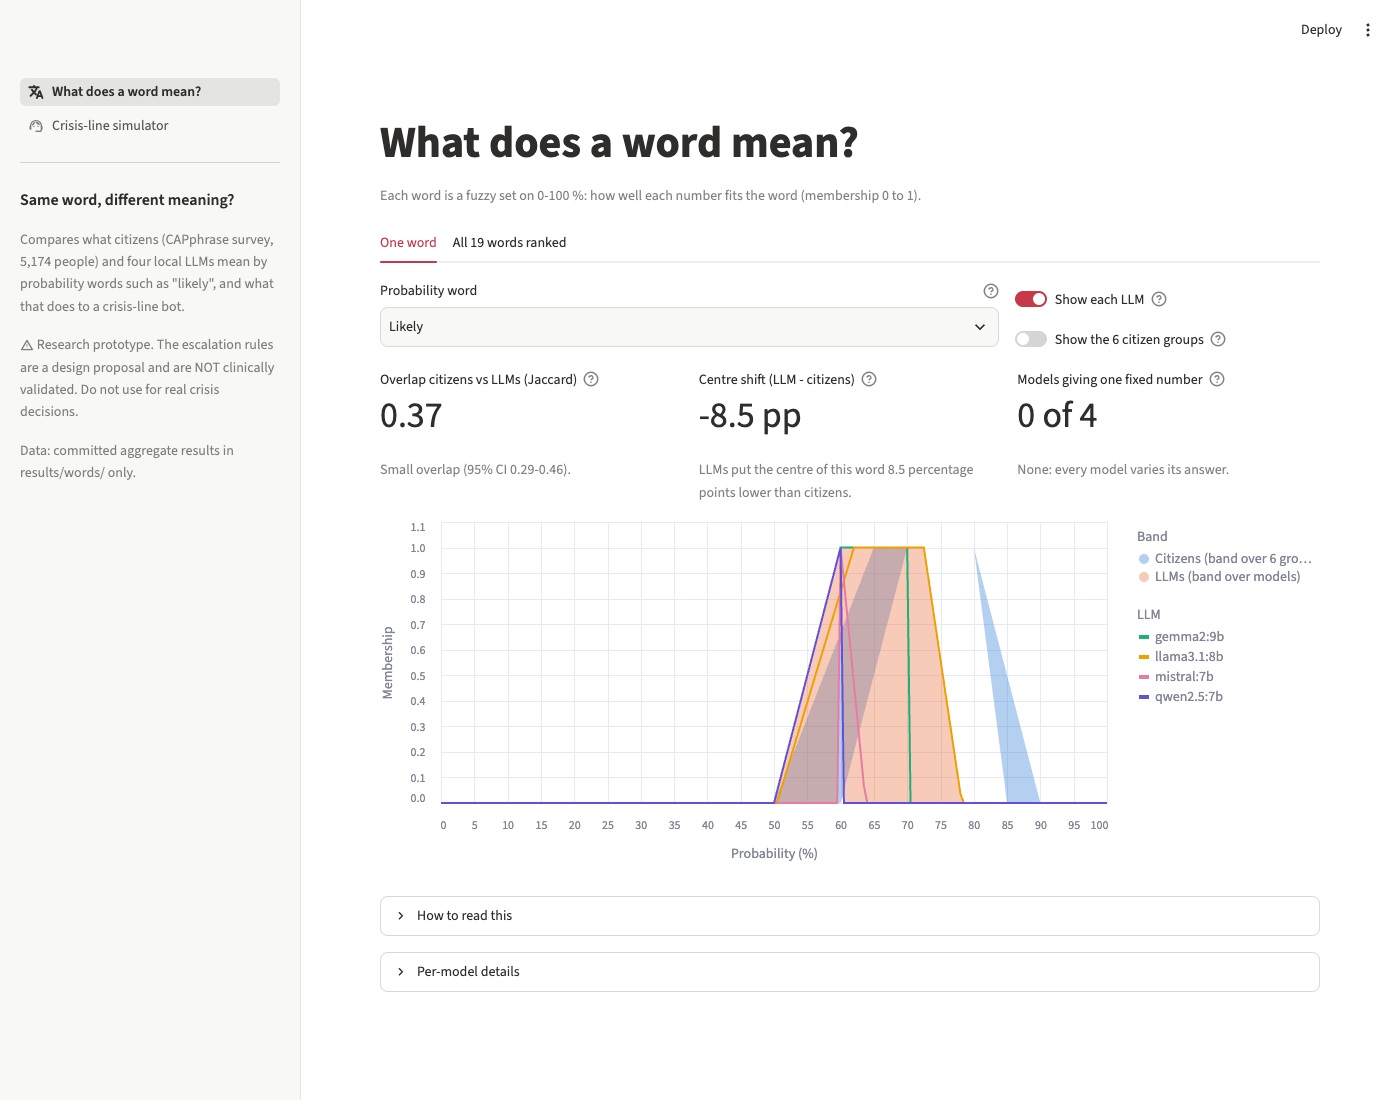
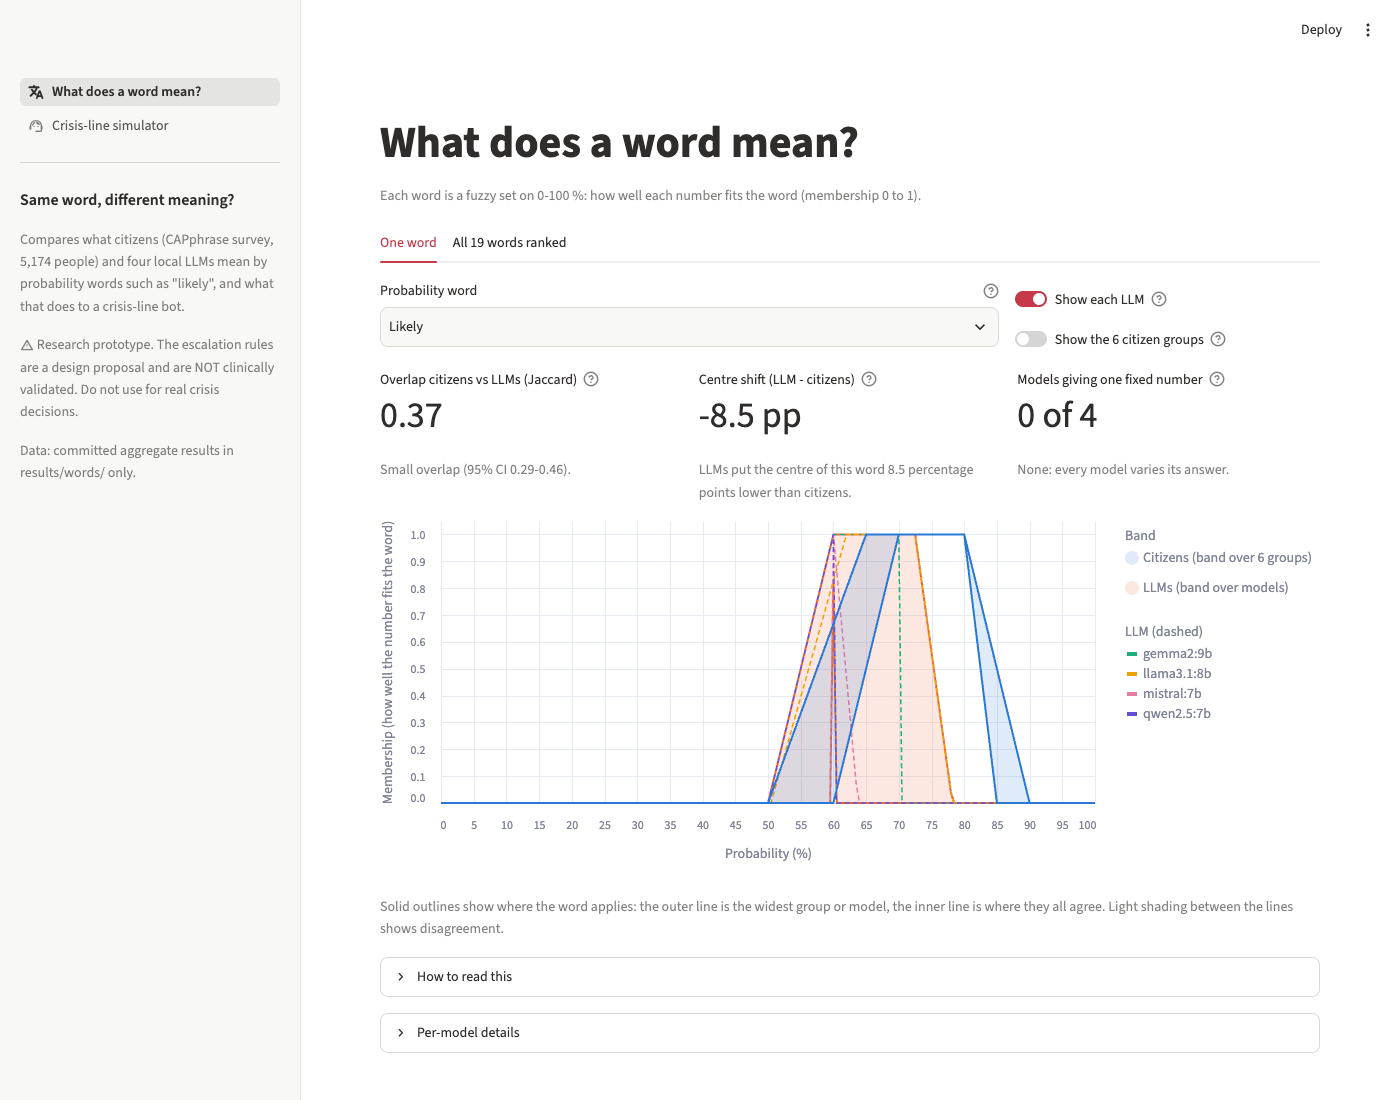
Fix word chart outlines and record Python 3.12 reference (PM review)
Page 1 now draws each band's UMF and LMF as solid outlines with a light
FOU fill and puts the citizen band on top, so the full citizen meaning
of a word is visible (for "Likely" the citizen core is 65-80, not the
right-hand sliver). Chart building moved to src/app/charts.py with
tests for layer order, both outlines and the "Likely" core. Python 3.12
is recorded as the reference environment; USABILITY.md stays a draft
until reviewed by Nikhil and Rajeshwar. Screenshots retaken.

Changed region(s): [[0.2764, 0.4636, 0.9214, 0.8964], [0.2764, 0.4636, 0.3071, 0.7109], [0.3071, 0.9273, 0.3686, 0.9582]]

diff --git a/src/app/charts.py b/src/app/charts.py
@@ -1,0 +1,70 @@
+"""Altair chart builders for the word-meaning lab (no Streamlit; unit-tested).
+
+Word chart (page 1): each band (citizens, LLMs) is drawn as a lightly shaded footprint of uncertainty (between
+LMF and UMF) PLUS solid outlines of both UMF and LMF, so the whole word stays visible: where all groups or models
+agree, the LMF outline shows it, and the chart does not rely on colour alone. Draw order (bottom to top):
+LLM fill, LLM outlines, model lines, citizen-group lines, citizen fill, citizen outlines. The citizen band is
+drawn last, so the LLM fill can never hide the citizens' edges.
+"""
+from __future__ import annotations
+
+import altair as alt
+import pandas as pd
+
+BLUE, ORANGE, GREY = '#2a78d6', '#eb6834', '#8a8984'
+MODEL_COLOURS = ['#1baf7a', '#eda100', '#e87ba4', '#6250d6']  # fixed order, one per model
+CITIZEN_BAND, LLM_BAND = 'Citizens (band over 6 groups)', 'LLMs (band over models)'
+FILL_OPACITY = .15
+LAYER_ORDER = ['llm_fill', 'llm_outline', 'model_lines', 'group_lines', 'citizen_fill', 'citizen_outline']
+
+
+def outlines(bands: pd.DataFrame) -> pd.DataFrame:
+    """Long frame of the UMF and LMF outlines of each band: x, series, edge, mu."""
+    up = bands.assign(edge='upper edge (UMF)', mu=bands.hi)
+    low = bands.assign(edge='lower edge (LMF)', mu=bands.lo)
+    return pd.concat([up, low], ignore_index=True)[['x', 'series', 'edge', 'mu']]
+
+
+def word_chart(bands: pd.DataFrame, lines: pd.DataFrame, height: int = 360) -> alt.LayerChart:
+    """Layered chart for one term; layer names follow LAYER_ORDER (layers without data are skipped)."""
+    x = alt.X('x:Q', title='Probability (%)', scale=alt.Scale(domain=[0, 100]))
+    y_title, y_scale = 'Membership (how well the number fits the word)', alt.Scale(domain=[0, 1.05])
+    y = alt.Y('mu:Q', title=y_title, scale=y_scale)
+    band_colour = alt.Color('series:N', title='Band', legend=alt.Legend(labelLimit=300),
+                            scale=alt.Scale(domain=[CITIZEN_BAND, LLM_BAND], range=[BLUE, ORANGE]))
+    edges = outlines(bands)
+    tip_edge = ['series:N', 'edge:N', alt.Tooltip('x:Q', title='%'), alt.Tooltip('mu:Q', format='.2f', title='membership')]
+
+    def fill(series, name):
+        part = bands[bands.series == series]
+        return alt.Chart(part).mark_area(opacity=FILL_OPACITY).encode(
+            x=x, y=alt.Y('lo:Q', title=y_title, scale=y_scale), y2='hi:Q', color=band_colour,
+            tooltip=['series:N', alt.Tooltip('x:Q', title='%'), alt.Tooltip('lo:Q', format='.2f', title='lower edge'),
+                     alt.Tooltip('hi:Q', format='.2f', title='upper edge')]).properties(name=name)
+
+    def edge(series, name):
+        part = edges[edges.series == series]
+        return alt.Chart(part).mark_line(strokeWidth=2).encode(
+            x=x, y=y, color=band_colour, detail='edge:N', tooltip=tip_edge).properties(name=name)
+
+    layers = [fill(LLM_BAND, 'llm_fill'), edge(LLM_BAND, 'llm_outline')]
+    models = lines[lines.kind == 'model']
+    if len(models):
+        names = sorted(models.series.unique())
+        layers.append(alt.Chart(models).mark_line(strokeWidth=1.5, strokeDash=[5, 3]).encode(
+            x=x, y=y, stroke=alt.Stroke('series:N', title='LLM (dashed)',
+                                        scale=alt.Scale(domain=names, range=MODEL_COLOURS[:len(names)])),
+            tooltip=['series:N', alt.Tooltip('x:Q', title='%'), alt.Tooltip('mu:Q', format='.2f', title='membership')]
+        ).properties(name='model_lines'))
+    groups = lines[lines.kind == 'citizen group']
+    if len(groups):
+        layers.append(alt.Chart(groups).mark_line(strokeWidth=1, color=BLUE, opacity=.7, strokeDash=[2, 2]).encode(
+            x=x, y=y, detail='series:N',
+            tooltip=[alt.Tooltip('series:N', title='Citizen group'), alt.Tooltip('x:Q', title='%'),
+                     alt.Tooltip('mu:Q', format='.2f', title='membership')]).properties(name='group_lines'))
+    layers += [fill(CITIZEN_BAND, 'citizen_fill'), edge(CITIZEN_BAND, 'citizen_outline')]
+    return alt.layer(*layers).resolve_scale(color='shared', stroke='independent').properties(height=height)
+
+
+def layer_names(chart: alt.LayerChart) -> list[str]:
+    return [layer.name for layer in chart.layer]

diff --git a/app/views/meaning.py b/app/views/meaning.py
@@ -2,10 +2,9 @@
 import altair as alt
 import streamlit as st
 
-from src.app import logic
+from src.app import charts, logic
 
-BLUE, ORANGE, GREY = '#2a78d6', '#eb6834', '#8a8984'
-MODEL_COLOURS = ['#1baf7a', '#eda100', '#e87ba4', '#6250d6']  # fixed order, one per model
+BLUE, ORANGE, GREY = charts.BLUE, charts.ORANGE, charts.GREY
 
 
 @st.cache_data(show_spinner=False)
@@ -49,35 +48,16 @@ with tab_one:
         st.warning(f'Left out for this word (fewer than 30 valid answers): {", ".join(s["excluded_models"])}.')
 
     bands, lines = logic.term_curves(d, term, show_groups=show_groups, show_models=show_models)
-    x = alt.X('x:Q', title='Probability (%)', scale=alt.Scale(domain=[0, 100]))
-    band = alt.Chart(bands).mark_area(opacity=.35).encode(
-        x=x, y=alt.Y('lo:Q', title='Membership', scale=alt.Scale(domain=[0, 1.05])), y2='hi:Q',
-        color=alt.Color('series:N', title='Band', scale=alt.Scale(domain=list(bands.series.unique()), range=[BLUE, ORANGE])),
-        tooltip=['series:N', alt.Tooltip('x:Q', title='%'), alt.Tooltip('lo:Q', format='.2f', title='lower'),
-                 alt.Tooltip('hi:Q', format='.2f', title='upper')])
-    layers = [band]
-    models = lines[lines.kind == 'model']
-    if len(models):
-        names = sorted(models.series.unique())
-        layers.append(alt.Chart(models).mark_line(strokeWidth=2).encode(
-            x=x, y='mu:Q',
-            stroke=alt.Stroke('series:N', title='LLM', scale=alt.Scale(domain=names, range=MODEL_COLOURS[:len(names)])),
-            tooltip=['series:N', alt.Tooltip('x:Q', title='%'), alt.Tooltip('mu:Q', format='.2f', title='membership')]))
-    groups = lines[lines.kind == 'citizen group']
-    if len(groups):
-        layers.append(alt.Chart(groups).mark_line(strokeWidth=1, color=BLUE, opacity=.8).encode(
-            x=x, y='mu:Q', detail='series:N',
-            tooltip=[alt.Tooltip('series:N', title='Citizen group'), alt.Tooltip('x:Q', title='%'),
-                     alt.Tooltip('mu:Q', format='.2f', title='membership')]))
-    st.altair_chart(alt.layer(*layers).resolve_scale(color='independent', stroke='independent').properties(height=360),
-                    width='stretch')
+    st.altair_chart(charts.word_chart(bands, lines), width='stretch')
+    st.caption('Solid outlines show where the word applies: the outer line is the widest group or model, the inner '
+               'line is where they all agree. Light shading between the lines shows disagreement.')
 
     with st.expander('How to read this', expanded=False):
         st.markdown(
-            '- **Blue band**: citizens. Its lower and upper edges come from 6 demographic groups; a wide band '
-            'means the groups disagree.\n'
-            '- **Orange band**: the four LLMs together (question P1, 50 answers each).\n'
-            '- **Coloured lines**: one LLM each. A tall thin spike means the model always gives the same number.\n'
+            '- **Blue outlines**: citizens. The outer (upper) line is the widest of the 6 demographic groups; the '
+            'inner (lower) line is where all 6 agree. Shading between them shows the groups disagree.\n'
+            '- **Orange outlines**: the four LLMs together (question P1, 50 answers each), read the same way.\n'
+            '- **Dashed lines**: one LLM each. A tall thin spike means the model always gives the same number.\n'
             '- **Overlap (Jaccard)** compares the two bands; **centre shift** compares where they sit.\n'
             '- Ranges in brackets are 95% bootstrap confidence intervals from the study.')
     with st.expander('Per-model details'):

diff --git a/tests/test_word_lab.py b/tests/test_word_lab.py
@@ -261,3 +261,44 @@ def test_app_runs_on_committed_results(monkeypatch):
     assert not at.exception
     at.switch_page('views/simulator.py').run()
     assert not at.exception and any('9 of 190' in c.value for c in at.caption)
+
+
+# --------------------------------------------------------------------------- word chart (PM review fix)
+
+from src.app import charts  # noqa: E402
+
+
+def _layer_data(chart, name):
+    spec = chart.to_dict()
+    layer = next(l for l in spec['layer'] if l.get('name') == name)
+    return spec['datasets'][layer['data']['name']], layer
+
+
+def test_word_chart_draws_both_outlines_with_citizens_on_top(results):
+    d = logic.load_word_data(results)
+    bands, lines = logic.term_curves(d, 'Likely', show_groups=True)
+    chart = charts.word_chart(bands, lines)
+    assert charts.layer_names(chart) == charts.LAYER_ORDER          # citizen fill and outlines drawn last
+    for name, series in [('citizen_outline', charts.CITIZEN_BAND), ('llm_outline', charts.LLM_BAND)]:
+        rows, layer = _layer_data(chart, name)
+        assert layer['mark']['type'] == 'line'
+        assert {r['series'] for r in rows} == {series}
+        assert {r['edge'] for r in rows} == {'upper edge (UMF)', 'lower edge (LMF)'}
+    for name in ['citizen_fill', 'llm_fill']:
+        _, layer = _layer_data(chart, name)
+        assert layer['mark']['opacity'] == charts.FILL_OPACITY <= .2
+    no_lines = charts.word_chart(bands, lines.iloc[0:0])
+    assert charts.layer_names(no_lines) == ['llm_fill', 'llm_outline', 'citizen_fill', 'citizen_outline']
+
+
+@pytest.mark.skipif(not (REAL / 'rq1/codebooks/citizen_it2.csv').is_file(), reason='committed results not present')
+def test_likely_citizen_core_is_visible_in_the_plotted_outline():
+    """'Likely': citizen UMF reaches 1 inside 67-80, and that outline is what the chart plots."""
+    d = logic.load_word_data(REAL)
+    bands, lines = logic.term_curves(d, 'Likely')
+    rows, _ = _layer_data(charts.word_chart(bands, lines), 'citizen_outline')
+    upper = pd.DataFrame([r for r in rows if r['edge'] == 'upper edge (UMF)'])
+    core = upper[(upper.x >= 67) & (upper.x <= 80)]
+    assert (core.mu == 1).any()
+    lower = pd.DataFrame([r for r in rows if r['edge'] == 'lower edge (LMF)'])
+    assert len(upper) == len(lower) == len(X)

diff --git a/src/app/logic.py b/src/app/logic.py
@@ -18,6 +18,7 @@ from src.cww import APPROPRIATENESS_WORDS
 from src.cww.rules import ACTIONS
 from src.cww.verbalise import CITIZEN, LEVELS, LLM, LLM_PROMPT, SEVERITY, action, load_codebooks, memberships, verbalise
 from src.cww.centroid import centre
+from src.app.charts import CITIZEN_BAND, LLM_BAND
 
 ROOT = Path(__file__).resolve().parents[2]
 DEFAULT_RESULTS = ROOT / 'results/words'
@@ -131,8 +132,8 @@ def term_curves(data: WordData, term: str, show_groups: bool = False, show_model
     c = data.citizen[data.citizen.term == term]
     l = data.llm_it2[data.llm_it2.term == term]
     bands = pd.concat([
-        pd.DataFrame({'x': c.x, 'series': 'Citizens (band over 6 groups)', 'lo': c.lmf, 'hi': c.umf}),
-        pd.DataFrame({'x': l.x, 'series': 'LLMs (band over models)', 'lo': l.lmf, 'hi': l.umf}),
+        pd.DataFrame({'x': c.x, 'series': CITIZEN_BAND, 'lo': c.lmf, 'hi': c.umf}),
+        pd.DataFrame({'x': l.x, 'series': LLM_BAND, 'lo': l.lmf, 'hi': l.umf}),
     ], ignore_index=True)
     parts = []
     if show_models:

diff --git a/app/README.md b/app/README.md
@@ -18,11 +18,12 @@ touches raw data, so it starts in about a second and contains no licensed survey
 
 ## Installation manual
 
-**Requirements:** Python 3.11 or newer, and the repository checked out with its `results/words/` folder.
+**Requirements:** **Python 3.12** (the reference environment for this project), and the repository checked
+out with its `results/words/` folder.
 
 ```bash
 git clone <repository> && cd mental-health-crisis
-python3 -m venv .venv
+python3.12 -m venv .venv
 .venv/bin/python -m pip install -r requirements.txt     # includes streamlit==1.67.0
 .venv/bin/streamlit run app/word_lab.py
 ```
@@ -30,9 +31,12 @@ python3 -m venv .venv
 Streamlit prints a local address (normally http://localhost:8501) and opens it in your browser.
 Stop the app with `Ctrl+C`.
 
-**Tested environment:** macOS (Apple silicon), Python 3.15.2, streamlit 1.67.0, altair 6.3.0, pandas 3.1.1,
-numpy 2.5.5, pyarrow 26.0.1. **Python 3.15 note:** the pinned `pyarrow==22.0.0` in `requirements.txt` has no
-wheel for Python 3.15 and fails to build. On 3.15, install the app's packages without that pin:
+**Reference environment:** Python 3.12 with the pins in `requirements.txt`. The WP8 reproducibility check runs
+there. The app itself was developed and tested on macOS (Apple silicon) with Python 3.15.2, streamlit 1.67.0,
+altair 6.3.0, pandas 3.1.1, numpy 2.5.5 and pyarrow 26.0.1.
+
+**Python 3.15 workaround:** the pinned `pyarrow==22.0.0` in `requirements.txt` has no wheel for Python 3.15 and
+fails to build. On 3.15, install the app's packages without that pin:
 
 ```bash
 .venv/bin/python -m pip install streamlit==1.67.0 numpy pandas matplotlib PyYAML pytest
@@ -63,11 +67,12 @@ Use the left sidebar to switch between the two pages.
 1. **Pick a probability word** in the drop-down menu (default: "Likely").
 2. Read the **chart**. The horizontal axis is a probability from 0 to 100 %. The height (*membership*, 0 to 1)
    shows how well each number fits the word.
-   - **Blue band:** citizens. Its lower and upper edges come from six demographic groups (native or non-native
-     English speakers, in three age bands). A wide band means the groups disagree.
-   - **Orange band:** the four LLMs together (question wording P1, 50 answers per model).
-   - **Coloured lines:** one LLM each. A tall thin spike means the model gave the same number almost every time
-     (a *collapsed* model).
+   - **Blue outlines:** citizens. The outer (upper) line is the widest of six demographic groups (native or
+     non-native English speakers, in three age bands); the inner (lower) line is where all six agree. Light
+     shading between the lines shows disagreement. The citizen band is drawn on top, so it is never hidden.
+   - **Orange outlines:** the four LLMs together (question wording P1, 50 answers per model), read the same way.
+   - **Dashed coloured lines:** one LLM each. A tall thin spike means the model gave the same number almost every
+     time (a *collapsed* model).
 3. Use the **toggles** to show or hide each LLM's line and the six citizen-group lines.
 4. Read the three **headline numbers**:
    - **Overlap (Jaccard):** 0 means the two bands do not overlap, 1 means they are identical.
@@ -141,6 +146,7 @@ A test checks that the simulator reproduces the committed RQ3 decisions for all 
   the flips shown (see `results/words/rq3/SUMMARY.md`, post-hoc section).
 - **Group lines** are T1 sets of six demographic groups only. Smaller groups such as under-18s or a missing
   age are not shown.
+- **Python version:** the pinned environment targets Python 3.12. Other versions may need the workaround above.
 - **Uncertainty** is shown as 95 % bootstrap intervals from the study. The app does not recompute them.
 - **Accessibility:** colours come from a reference categorical palette designed for colour-vision deficiencies,
   but this exact combination has not been re-validated. Every series is also named in a legend and tooltip, so

diff --git a/docs/AI_USAGE.md b/docs/AI_USAGE.md
@@ -25,3 +25,4 @@ installed to satisfy that test. Raw checksums remained unchanged.
 | 2026-11-24 | Claude Code | WP5 RQ3 crisis-line flips (`feature/rq3-words`) | WP4 was already merged, so the branch was cut from main and run for real directly. Added `experiments/words/run_rq3.py` (190 BHH complete-case items; m from `bhh.load_crisis_degree`, S3 reply word from results/rq2/per_item.csv; (UMF + LMF) / 2 membership interpolated on the 0.5 grid, ties to the more severe word, nearest-centre fallback counted; rules.py actions; citizen IT2, LLM IT2 (P1) and six group T1 codebooks; B = 1000 item bootstrap, seed 20261124; exits with a message if llm_it2.csv is missing) and synthetic tests `tests/test_rq3_words.py` (tie, all-zero fallback, known flip, seed, missing codebook, byte-identical rerun). BHH raw data re-fetched with `scripts/fetch_data.py` at the pinned revision; all 393 file hashes match MANIFEST.json and the loader reproduces the committed mu_L. Two real runs byte-identical. Outputs contain item ids and numbers only. |
 | 2026-11-24 | Claude Code | WP5 post-hoc sensitivity (`feature/rq3-words`, after PM review) | Added the PM-requested, clearly labelled post-hoc analyses to `run_rq3.py`: (a) flips on items decided without a fallback on both sides (5/190, bootstrap CI, same draws) and (b) an alternative "more severe neighbouring word" fallback, written to `results/words/rq3/sensitivity_posthoc.csv` with a generated SUMMARY section, the LLM-gap finding and the A0/A1 paper note. Two synthetic tests added. Primary outputs (per_item, metrics, flip matrix, figures) are byte-unchanged; two reruns byte-identical. |
 | 2026-11-24 | Claude Code | WP6 word-meaning lab (`feature/word-lab`) | Built the Streamlit prototype `app/word_lab.py` (two pages, thin UI) with logic in `src/app/logic.py`. Moved the RQ3 verbalisation rule unchanged into `src/cww/verbalise.py` so the app and `experiments/words/run_rq3.py` share one implementation; the RQ3 outputs stayed byte-identical. Tests in `tests/test_word_lab.py`: logic unit tests on a synthetic results folder, a check that the simulator reproduces all 190 committed RQ3 decisions, and Streamlit AppTest smoke tests of both pages (including missing rq3/rq2 folders). Wrote `app/README.md` (installation and user manual, limitations) and `docs/USABILITY.md` (a Nielsen heuristic self-evaluation drafted by Claude for the team to review). Pinned streamlit==1.67.0. Screenshots taken with headless Chrome via Playwright in a scratch environment (not a project dependency). The app reads committed aggregate results only. |
+| 2026-11-24 | Claude Code | WP6 PM review fixes (`feature/word-lab`) | Moved the page 1 chart into `src/app/charts.py`. Each band now shows solid UMF and LMF outlines with a light FOU fill (opacity 0.15), and the citizen band is drawn last, so the citizen core of "Likely" (UMF = 1 at 65–80) is visible. Tests check the layer order, both outlines, and the "Likely" core on the committed codebook. Recorded Python 3.12 as the reference environment in requirements.txt and the READMEs (pins kept; 3.15 workaround documented); USABILITY.md stays a draft until Nikhil and Rajeshwar review it. Screenshots retaken. |

diff --git a/docs/USABILITY.md b/docs/USABILITY.md
@@ -1,6 +1,7 @@
 # Usability: heuristic self-evaluation of the word-meaning lab (WP6)
 
-**Status: draft written by Claude Code (WP6) for the team to review, amend and sign off.**
+**Status: DRAFT.** Written by Claude Code (WP6). It stays a draft until Nikhil and Rajeshwar have reviewed it
+(PM ruling on PR #32).
 
 Method: a walk-through of both pages of `app/word_lab.py` (v. WP6, 2026-11-24) against Nielsen's ten
 usability heuristics (Nielsen 1994, *Enhancing the explanatory power of usability heuristics*, CHI '94). One line

diff --git a/README.md b/README.md
@@ -145,6 +145,8 @@ reads only the committed aggregate results in `results/words/`.
 .venv/bin/streamlit run app/word_lab.py
 ```
 
+Reference environment: **Python 3.12** with the pins in `requirements.txt`.
+
 Installation manual, user manual and known limitations: [app/README.md](app/README.md). Usability
 self-evaluation: [docs/USABILITY.md](docs/USABILITY.md).
 
